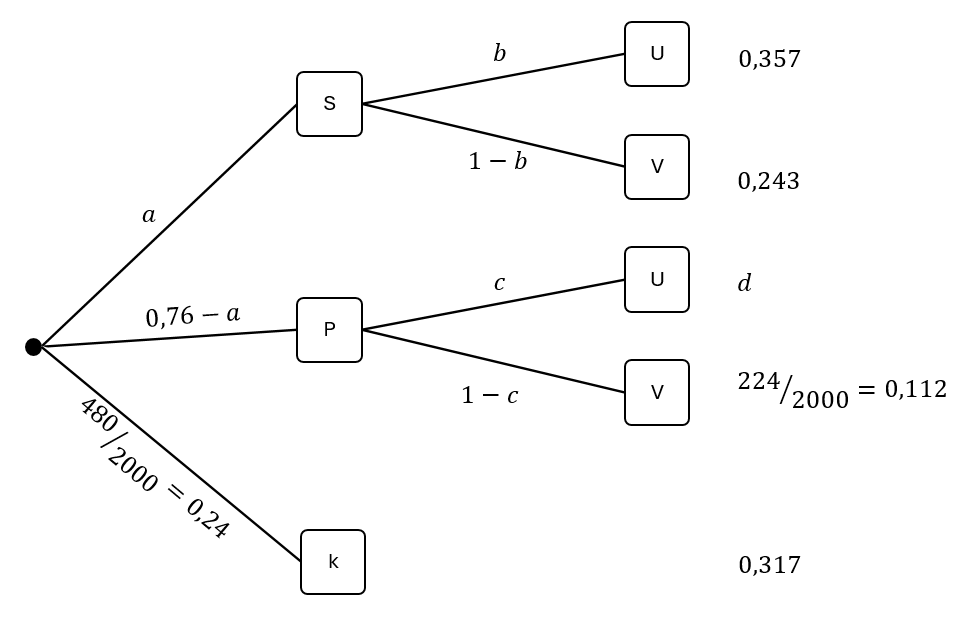
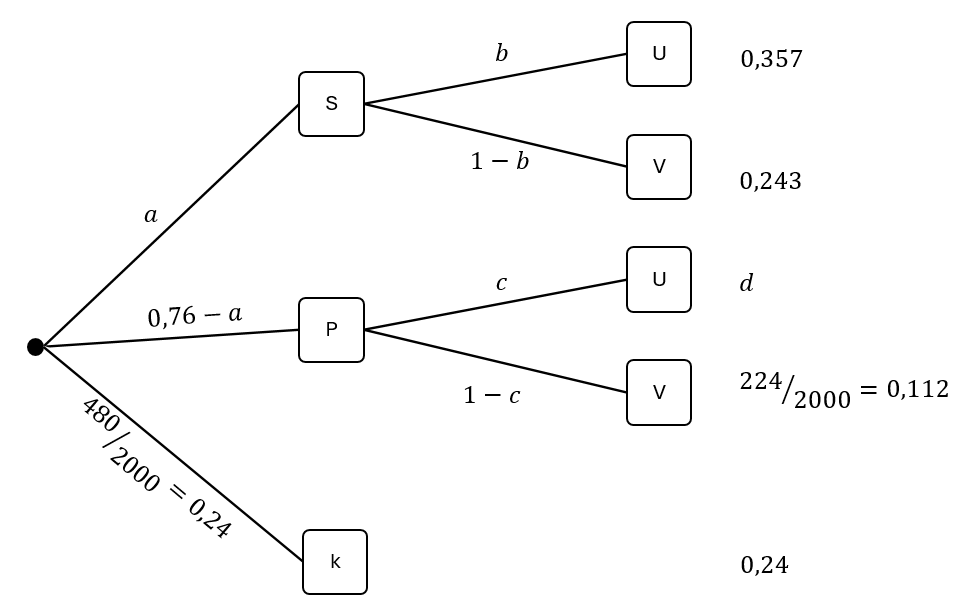
a

diff --git a/lernbereiche/Zufallsgrößen/skript/skript.md b/lernbereiche/Zufallsgrößen/skript/skript.md
@@ -279,11 +279,58 @@ und setzen gleich: $0{,}5 -y = 4y - 1{,}35$. Es folgt $1{,}85 = 5y$ und so $y=0{
 
 <div id="quiz-zweiFehlendeWkt"></div>
 
-<!--
-##### Beispiel: Wurf zweier Würfel
-Die Ergebnismenge ist $S=\\{(1;1),(1;2),\ldots,(6;6)\\}$. Die Zufallsgröße bestehe nun darin, jedem Ergebnis die Summe der Augenzahlen zuzuordnen: $(1;1) \mapsto 2$, $(1;2) \mapsto 3$, $\ldots$, $(6;6) \mapsto 12$.
+#### Weitere Beispiele
 
-| $x_i$            | $2$            | $3$            | $4$            | $5$            | $6$            | $7$            | $8$            | $9$            | $10$           | $11$           | $12$           |
-|------------------|----------------|----------------|----------------|----------------|----------------|----------------|----------------|----------------|----------------|----------------|----------------|
-| $P(X = x_i)$     | $\frac{1}{36}$ | $\frac{2}{36}$ | $\frac{3}{36}$ | $\frac{4}{36}$ | $\frac{5}{36}$ | $\frac{6}{36}$ | $\frac{5}{36}$ | $\frac{4}{36}$ | $\frac{3}{36}$ | $\frac{2}{36}$ | $\frac{1}{36}$ |
--->
+##### Elektronikfachmarkt
+
+In [diesem Beispiel](skript.html?thema=Mehrstufige%20Zufallsexperimente#elektronikfachmarkt) wurden für eine statistische Untersuchung in einem großen Elektronikfachmarkt Aufzeichnungen über die Verkäufe von Laptops mit Windows- bzw. macOS-Betriebssystem geführt. Zusätzlich wurden drei Gerätekategorien erfasst: Einsteigergeräte (E), Mittelklassegeräte (M) und Premiumgeräte (P).
+
+Der Sachverhalt ist in folgendem Baumdiagramm dargestellt:
+
+ <figure>
+  <img src="Elektronikfachmarkt.png">
+</figure>
+
+Der Gewinn bei Windows-Geräten beträgt unabhängig von der Gerätekategorie 180&nbsp;€ pro Stück. Bei macOS-Geräten beläuft sich der Gewinn auf 130&nbsp;€ für Einsteigergeräte, 210&nbsp;€ für Mittelklassegeräte und 290 € für Premiumgeräte.
+
+Die Wahrscheinlichkeitsverteilung der Zufallsgröße, die den Gewinn pro Laptop angibt, lautet:
+
+| $x_i$        | $180$    | $130$    | $210$    | $290$    |
+| ------------ | -------- | -------- | -------- | -------- |
+| $P(X = x_i)$ | $0{,}45$ | $0{,}16$ | $0{,}35$ | $0{,}04$ |
+
+Hierbei wurde $P(\\{W\\})=0{,}04+0{,}35+0{,}06=0{,}45$ berechnet.
+
+Der erwartete Gewinn pro Laptop beträgt dann
+\begin{align*}
+E(X) &= 180 \cdot 0{,}45 + 130 \cdot 0{,}16 + 210 \cdot 0{,}35 + 290 \cdot 0{,}04 \\\\
+&= 81 + 20{,}8 + 73{,}5 + 11{,}6 \\\\
+&= 186{,}9.
+\end{align*}
+
+Werden insgesamt z.B. 80.000 Laptops verkauft, so beträgt der Gesamtgewinn $186{,}9 \cdot 80.000=14.952.000$ €.
+
+##### Lern-Apps
+
+In [diesem Beispiel](skript.html?thema=Mehrstufige%20Zufallsexperimente#lern-apps) wurden 2.000 Schülerinnen und Schülern befragt, welche Versionen von Lern-Apps sie nutzen: Starter-Versionen (S), Pro-Versionen (P) oder keine Lern-Apps (k). Außerdem wurde untersucht, ob sie die Apps zur Unterhaltung (U) oder zur Vorbereitung auf Prüfungen (V) verwenden.
+
+Der Sachverhalt ist in folgendem Baumdiagramm dargestellt:
+
+ <figure>
+  <img src="Lernapp.png">
+</figure>
+
+Jugendliche, die mit Pro-Versionen von Lern-Apps gezielt für Prüfungen gelernt haben, erreichen in der Abiturprüfung im Durchschnitt 11,3 Punkte. Diejenigen, die mit Starter-Versionen gezielt gelernt haben, erzielen im Mittel 10,4 Punkte, jene, die Lern-Apps zur Unterhaltung nutzen, 9,1 Punkte. Jugendliche ohne Nutzung von Lern-Apps erreichen durchschnittlich 7,3 Punkte.
+
+Die Wahrscheinlichkeitsverteilung der Zufallsgröße, die die Punkte in der Abiturprüfung angibt, lautet:
+
+| $x_i$        | $11{,}3$  | $10{,}4$  | $9{,}1$   | $7{,}3$  |
+| ------------ | --------- | --------- | --------- | -------- |
+| $P(X = x_i)$ | $0{,}112$ | $0{,}243$ | $0{,}405$ | $0{,}24$ |
+
+Der erwarteten Punkte je Abiturprüfung betragen dann
+\begin{align*}
+E(X) &= 11{,}3 \cdot 0{,}112 + 10{,}4 \cdot 0{,}243 + 9{,}1 \cdot 0{,}405 + 7{,}3 \cdot 0{,}24 \\\\
+&= 1{,}2656 + 2{,}5272 + 3{,}6855 + 1{,}752 \\\\
+&= 9{,}2303.
+\end{align*}

diff --git a/lernbereiche/Mehrstufige Zufallsexperimente/skript/skript.md b/lernbereiche/Mehrstufige Zufallsexperimente/skript/skript.md
@@ -117,7 +117,7 @@ Die Wahrscheinlichkeit 2 wird mit $x$ bezeichnet und kann wie folgt berechnet we
 
 ##### Elektronikfachmarkt
 
-Für eine statistische Untersuchung wurden in einem großen Elektronikfachmarkt Aufzeichnungen über die Verkäufe von Laptops mit Windows- bzw. macOS-Betriebssystem geführt. Zusätzlich wurden drei Gerätekategorien erfasst: Einsteigergeräte (E), Mittelklassegeräte (M) und Premiumgeräte (P). Von den Einsteigergeräten liefen ein Fünftel und von den Mittelklassegeräten die Hälfe mit Windows. Von den insgesamt 80.000 erfassten Laptops waren 45&nbsp;\% mit Windows ausgestattet, es wurden 16.000 Einsteigergeräte und 8.000 Premiumgeräte verkauft.
+Für eine statistische Untersuchung wurden in einem großen Elektronikfachmarkt Aufzeichnungen über die Verkäufe von Laptops mit Windows (W)- bzw. macOS (m)-Betriebssystem geführt. Zusätzlich wurden drei Gerätekategorien erfasst: Einsteigergeräte (E), Mittelklassegeräte (M) und Premiumgeräte (P). Von den Einsteigergeräten liefen ein Fünftel und von den Mittelklassegeräten die Hälfe mit Windows. Von den insgesamt 80.000 erfassten Laptops waren 45&nbsp;\% mit Windows ausgestattet, es wurden 16.000 Einsteigergeräte und 8.000 Premiumgeräte verkauft.
 
 Mithilfe dieser Angaben ergibt sich das folgende Baumdiagramm. Dabei wurde bereits berücksichtigt, dass die Summe aller Pfadwahrscheinlichkeiten, die von einem Knoten ausgehen, gleich 1 ist. Außerdem wurden die Pfadendwahrscheinlichkeiten berechnet.
 
